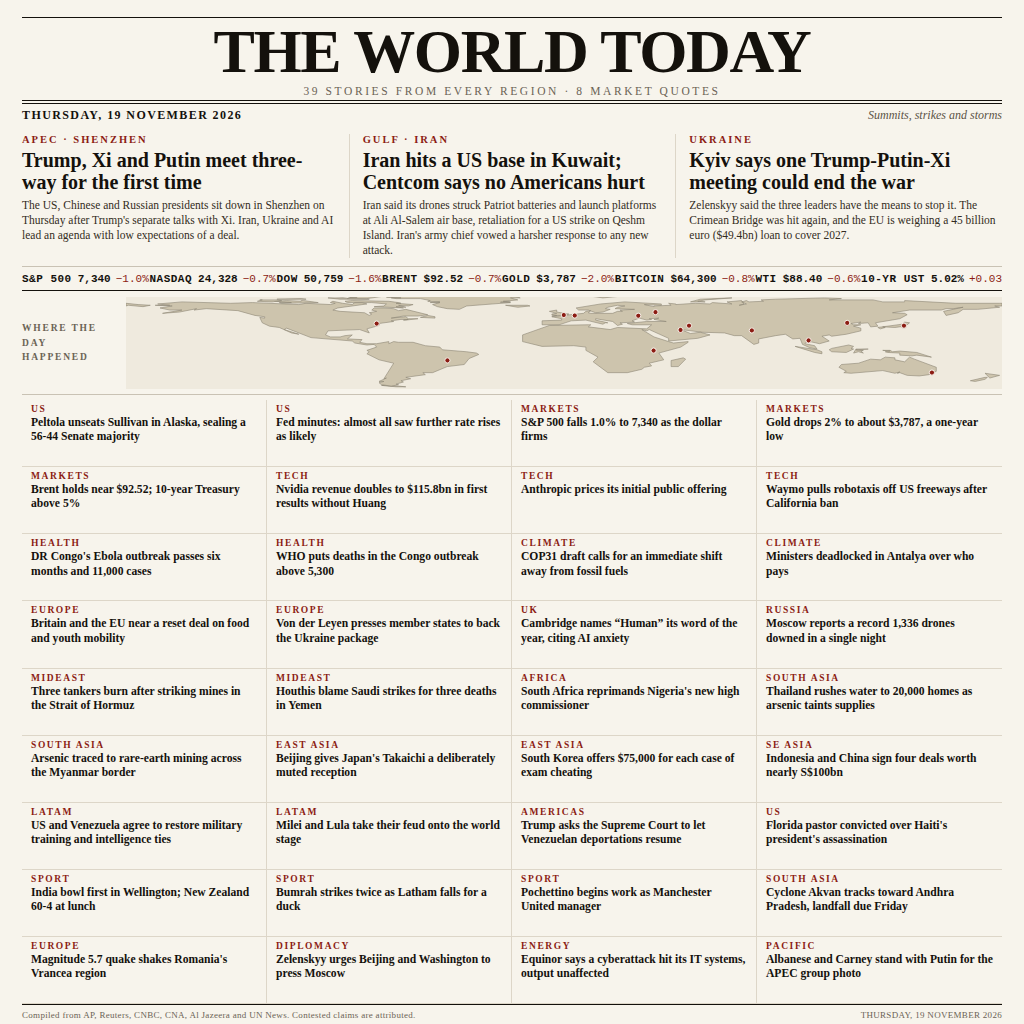
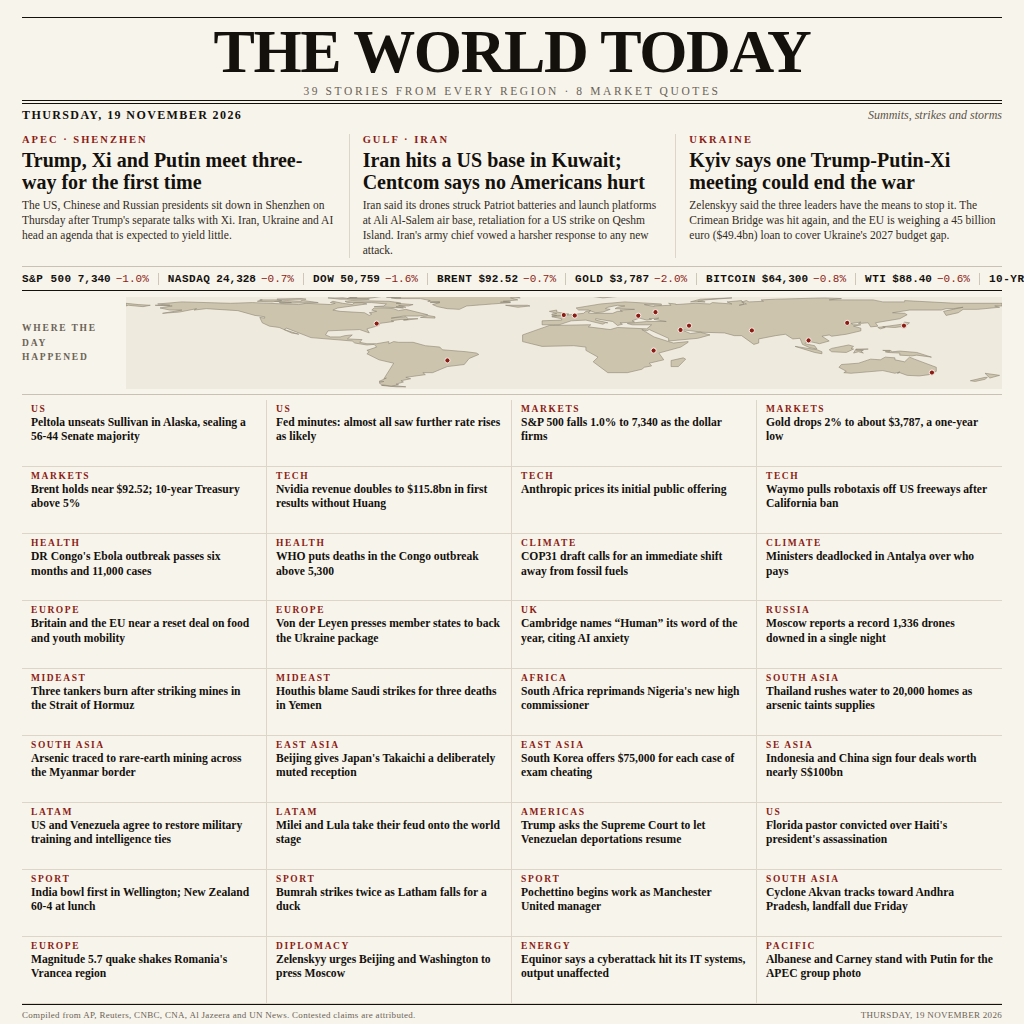
Fix lead copy and ticker separation

Changed region(s): [[0.0312, 0.2188, 1.0, 0.2812]]

diff --git a/build/poster.html b/build/poster.html
@@ -120,6 +120,9 @@ section.ticker {
   white-space: nowrap;
 }
 
+.tick { padding: 0 9px; border-left: 1px solid #cfc7b6; }
+.tick:first-child { padding-left: 0; border-left: 0; }
+.tick:last-child { padding-right: 0; }
 .tick b { text-transform: uppercase; letter-spacing: .5px; }
 .tick span { margin-left: 6px; font-weight: 700; }
 .tick em { margin-left: 5px; font-style: normal; color: #8c1c13; }
@@ -226,7 +229,7 @@ footer.foot {
   <article class="lead">
     <div class="kicker">APEC · SHENZHEN</div>
     <h2>Trump, Xi and Putin meet three-way for the first time</h2>
-    <p class="deck">The US, Chinese and Russian presidents sit down in Shenzhen on Thursday after Trump&#x27;s separate talks with Xi. Iran, Ukraine and AI lead an agenda with low expectations of a deal.</p>
+    <p class="deck">The US, Chinese and Russian presidents sit down in Shenzhen on Thursday after Trump&#x27;s separate talks with Xi. Iran, Ukraine and AI head an agenda that is expected to yield little.</p>
   </article>
   <article class="lead">
     <div class="kicker">GULF · IRAN</div>
@@ -236,7 +239,7 @@ footer.foot {
   <article class="lead">
     <div class="kicker">UKRAINE</div>
     <h2>Kyiv says one Trump-Putin-Xi meeting could end the war</h2>
-    <p class="deck">Zelenskyy said the three leaders have the means to stop it. The Crimean Bridge was hit again, and the EU is weighing a 45 billion euro ($49.4bn) loan to cover 2027.</p>
+    <p class="deck">Zelenskyy said the three leaders have the means to stop it. The Crimean Bridge was hit again, and the EU is weighing a 45 billion euro ($49.4bn) loan to cover Ukraine&#x27;s 2027 budget gap.</p>
   </article>
   </section>
   <section class="ticker">

diff --git a/build/poster.css b/build/poster.css
@@ -114,6 +114,9 @@ section.ticker {
   white-space: nowrap;
 }
 
+.tick { padding: 0 9px; border-left: 1px solid #cfc7b6; }
+.tick:first-child { padding-left: 0; border-left: 0; }
+.tick:last-child { padding-right: 0; }
 .tick b { text-transform: uppercase; letter-spacing: .5px; }
 .tick span { margin-left: 6px; font-weight: 700; }
 .tick em { margin-left: 5px; font-style: normal; color: #8c1c13; }

diff --git a/build/poster.py b/build/poster.py
@@ -23,8 +23,8 @@ LEADS = [
         "head": "Trump, Xi and Putin meet three-way for the first time",
         "deck": (
             "The US, Chinese and Russian presidents sit down in Shenzhen on Thursday "
-            "after Trump's separate talks with Xi. Iran, Ukraine and AI lead an agenda "
-            "with low expectations of a deal."
+            "after Trump's separate talks with Xi. Iran, Ukraine and AI head an agenda "
+            "that is expected to yield little."
         ),
     },
     {
@@ -42,7 +42,7 @@ LEADS = [
         "deck": (
             "Zelenskyy said the three leaders have the means to stop it. The Crimean "
             "Bridge was hit again, and the EU is weighing a 45 billion euro ($49.4bn) "
-            "loan to cover 2027."
+            "loan to cover Ukraine's 2027 budget gap."
         ),
     },
 ]
